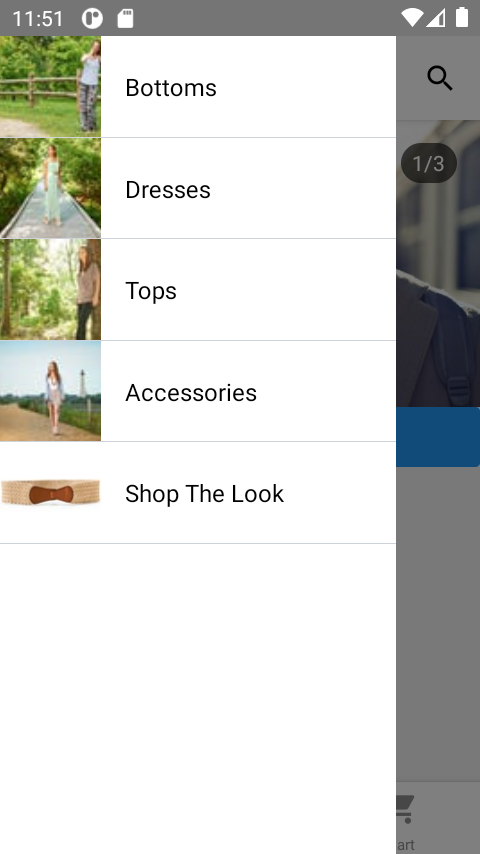
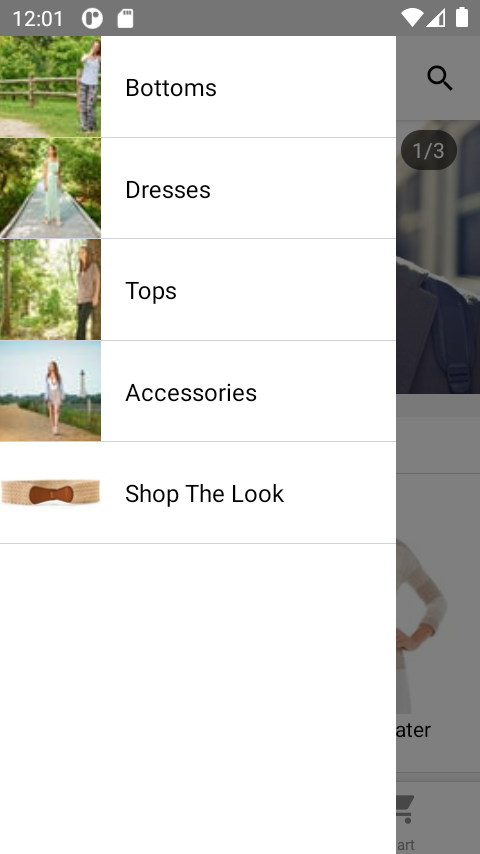
feat: Show Featured Category products on Home Screen

diff --git a/src/screens/HomeScreen/FeaturedProductList.tsx b/src/screens/HomeScreen/FeaturedProductList.tsx
@@ -1,0 +1,99 @@
+import { useNavigation } from '@react-navigation/native';
+import React, { useEffect } from 'react';
+import { ActivityIndicator, View, FlatList, StyleSheet } from 'react-native';
+import { Text } from 'react-native-elements';
+import { ProductInListType } from '../../apollo/queries/productsFragment';
+import { ProductListItem } from '../../components';
+import { SPACING } from '../../constants';
+import { useCategoryProducts } from '../../logic';
+import { Routes } from '../../navigation';
+
+type Props = {
+  name?: string;
+  categoryId: string;
+};
+
+const FeaturedProductList = ({
+  name,
+  categoryId,
+}: Props): React.ReactElement => {
+  const {
+    getCategoryProducts,
+    loading,
+    products,
+    error,
+  } = useCategoryProducts({ categoryId });
+  const navigation = useNavigation();
+
+  useEffect(() => {
+    getCategoryProducts();
+  }, []);
+
+  const onProductItemClicked = (index: number) => {
+    navigation.navigate(Routes.NAVIGATION_TO_PRODUCT_DETAILS_SCREEN, {
+      name: products[index].name,
+      sku: products[index].sku,
+    });
+  };
+
+  const renderItem = ({
+    item,
+    index,
+  }: {
+    item: ProductInListType;
+    index: number;
+  }) => {
+    return (
+      <ProductListItem
+        item={item}
+        index={index}
+        horizontalMode
+        onPress={onProductItemClicked}
+      />
+    );
+  };
+
+  if (error?.message) {
+    return (
+      <View>
+        <Text>{error.message}</Text>
+      </View>
+    );
+  }
+
+  if (loading) {
+    return <ActivityIndicator size="large" />;
+  }
+
+  return (
+    <View style={styles.container}>
+      {name && (
+        <Text h4 h4Style={styles.title}>
+          {name}
+        </Text>
+      )}
+      <FlatList
+        horizontal
+        showsHorizontalScrollIndicator={false}
+        data={products}
+        renderItem={renderItem}
+        keyExtractor={item => `productListItem${item.sku}`}
+      />
+    </View>
+  );
+};
+
+// TODO: Extract hard coded values
+const styles = StyleSheet.create({
+  container: {
+    marginBottom: SPACING.large,
+    backgroundColor: '#fff',
+  },
+  title: {
+    marginStart: SPACING.large,
+    paddingVertical: SPACING.small,
+    fontSize: 16,
+  },
+});
+
+export default FeaturedProductList;

diff --git a/src/screens/HomeScreen/HomeScreen.tsx b/src/screens/HomeScreen/HomeScreen.tsx
@@ -3,8 +3,9 @@ import { BottomTabNavigationProp } from '@react-navigation/bottom-tabs';
 import { BottomTabNavigatorParamList, Routes } from '../../navigation';
 import { GenericTemplate, MediaGallery } from '../../components';
 import { magentoConfig } from '../../../magento.config';
-import { DIMENS } from '../../constants';
-import { Button } from 'react-native-elements';
+import { DIMENS, SPACING } from '../../constants';
+import FeaturedProductList from './FeaturedProductList';
+import { StyleSheet } from 'react-native';
 
 type Props = {
   navigation: BottomTabNavigationProp<
@@ -13,17 +14,29 @@ type Props = {
   >;
 };
 
-const HomeScreen = ({ navigation }: Props): React.ReactElement => {
+const HomeScreen = ({}: Props): React.ReactElement => {
   return (
-    <GenericTemplate>
+    <GenericTemplate scrollable>
       <MediaGallery
         resizeMode="cover"
         items={magentoConfig.homeCarousel}
         height={DIMENS.homeScreen.carouselHeight}
+        containerStyle={styles.mediaContainer}
       />
-      <Button title="Shop Now" onPress={navigation.openDrawer} />
+      {magentoConfig.homeFeaturedCategories.map(featuredCategory => (
+        <FeaturedProductList
+          name={featuredCategory.name}
+          categoryId={featuredCategory.id}
+        />
+      ))}
     </GenericTemplate>
   );
 };
+
+const styles = StyleSheet.create({
+  mediaContainer: {
+    marginBottom: SPACING.large,
+  },
+});
 
 export default HomeScreen;

diff --git a/src/components/ProductListItem/ProductListItem.tsx b/src/components/ProductListItem/ProductListItem.tsx
@@ -8,6 +8,7 @@ import { DIMENS } from '../../constants';
 interface Props {
   item: ProductInListType;
   index: number;
+  horizontalMode?: boolean;
   onPress(arg0: number): void;
   navigation?: {
     navigate: (arg0: string, arg1: object) => {};
@@ -20,6 +21,7 @@ const COLUMN_WIDTH = DIMENS.common.WINDOW_WIDTH / 2;
 const ProductListItem = ({
   item,
   index,
+  horizontalMode = false,
   onPress,
 }: Props): React.ReactElement => {
   const { theme } = useContext(ThemeContext);
@@ -34,7 +36,8 @@ const ProductListItem = ({
         style={[
           styles.container,
           { borderColor: theme.colors?.divider },
-          index % 2 !== 0 && styles.leftBorder,
+          horizontalMode && styles.topBorder,
+          (horizontalMode || index % 2 !== 0) && styles.leftBorder,
         ]}
       >
         {renderImage()}
@@ -53,9 +56,13 @@ const styles = StyleSheet.create({
     width: COLUMN_WIDTH,
     borderBottomWidth: DIMENS.common.borderWidth,
     backgroundColor: 'white',
+    overflow: 'hidden',
   },
   leftBorder: {
     borderLeftWidth: DIMENS.common.borderWidth,
+  },
+  topBorder: {
+    borderTopWidth: DIMENS.common.borderWidth,
   },
   image: {
     width: COLUMN_WIDTH,

diff --git a/magento.config.ts b/magento.config.ts
@@ -27,6 +27,14 @@ export const magentoConfig = {
         'https://master-7rqtwti-mfwmkrjfqvbjk.us-4.magentosite.cloud/media/woman-wearing-orange-dress-3503488_sm.jpg?auto=webp&format=pjpg&quality=85',
     },
   ],
+  // featured Catgeory products to be shown on HomeScreen, add as many as you want
+  homeFeaturedCategories: [
+    {
+      id: '12',
+      name: 'Skirts',
+    },
+    { id: '11', name: 'Pants & Shorts' },
+  ],
 };
 
 interface CurrencySymbols {
